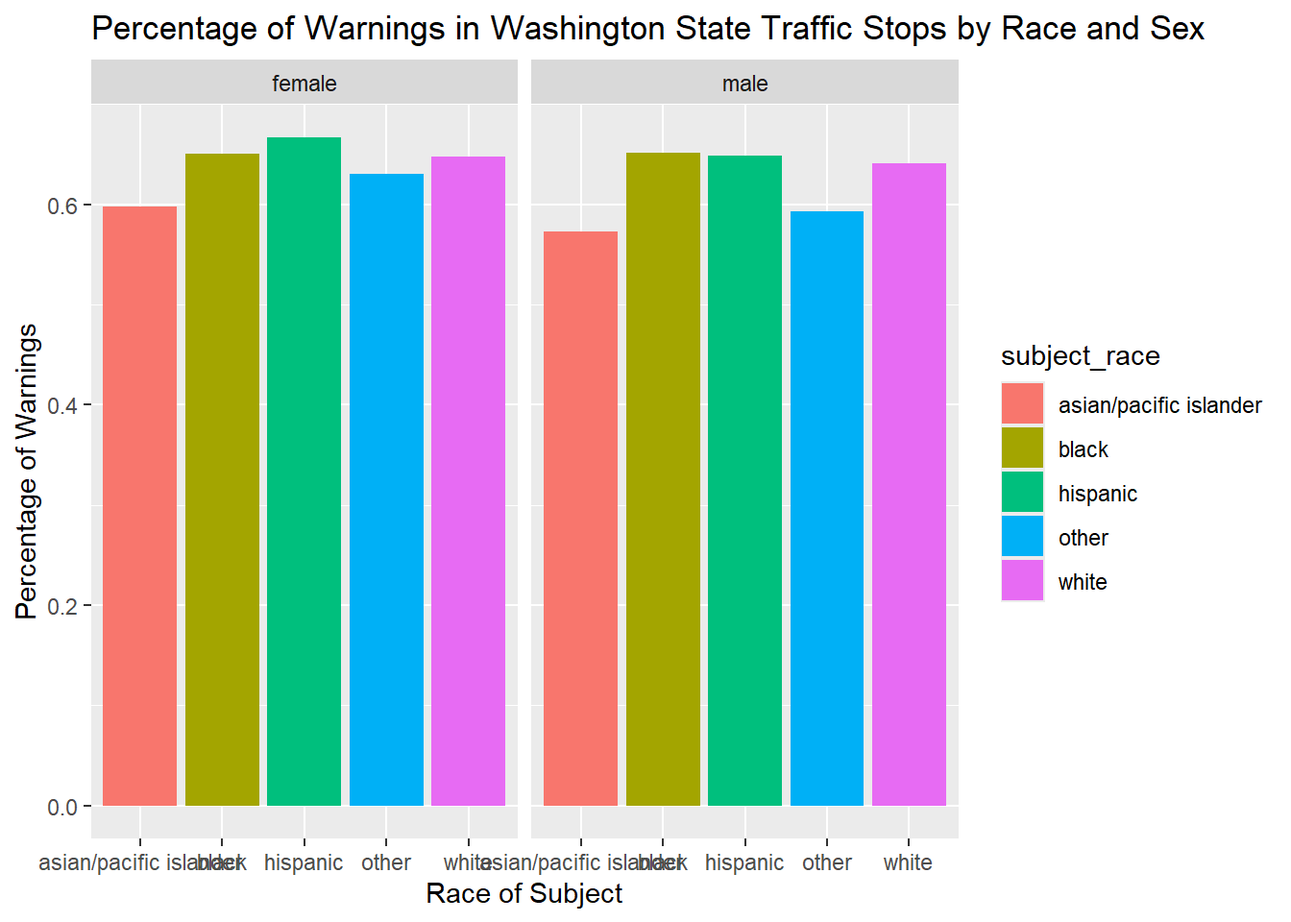
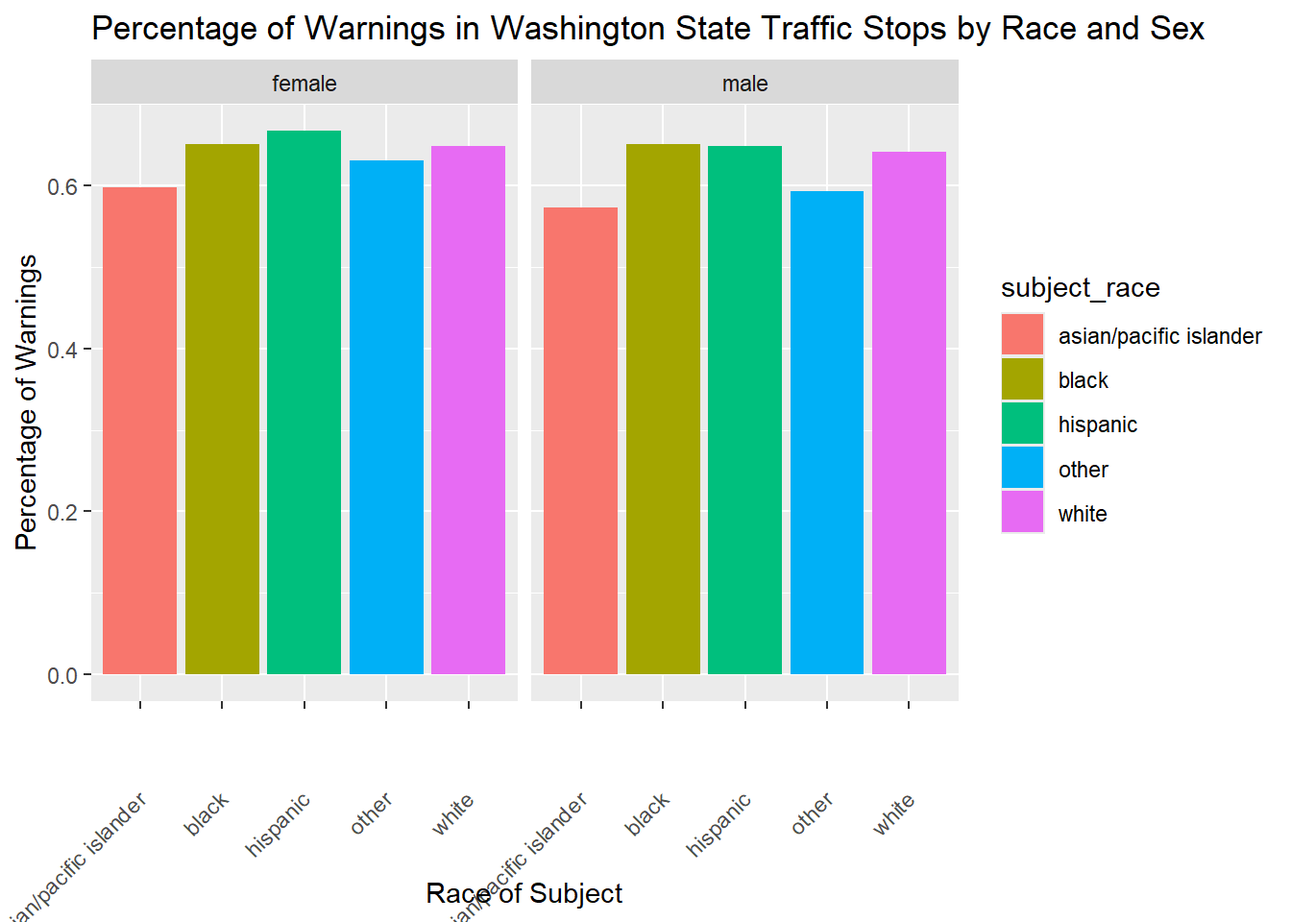
Project 6

diff --git a/docs/sopp.html b/docs/sopp.html
@@ -197,7 +197,7 @@ pre > code.sourceCode > span > a:first-child::before { text-decoration: underlin
 <h1>
 Stanford Open Policing Project
 </h1>
-<p>In this project, I used data compiled by Pierson et. al in 2020. The data and more about the Stanford Open Policing Project can be found on their website (&lt;a href=“https://openpolicing.stanford.edu”&gt;Click Here&lt;/a&gt;).</p>
+<p>In this project, I used data compiled by Pierson et. al in 2020. The data and more about the Stanford Open Policing Project can be found on their website (<a href="https://openpolicing.stanford.edu">Click Here</a>).</p>
 <div class="cell">
 <details>
 <summary>Code</summary>
@@ -214,81 +214,34 @@ Stanford Open Policing Project
 <span id="cb2-4"><a href="#cb2-4" aria-hidden="true" tabindex="-1"></a>  <span class="at">host =</span> <span class="fu">Sys.getenv</span>(<span class="st">"TRAFFIC_HOST"</span>),</span>
 <span id="cb2-5"><a href="#cb2-5" aria-hidden="true" tabindex="-1"></a>  <span class="at">user =</span> <span class="fu">Sys.getenv</span>(<span class="st">"TRAFFIC_USER"</span>),</span>
 <span id="cb2-6"><a href="#cb2-6" aria-hidden="true" tabindex="-1"></a>  <span class="at">password =</span> <span class="fu">Sys.getenv</span>(<span class="st">"TRAFFIC_PWD"</span>)</span>
-<span id="cb2-7"><a href="#cb2-7" aria-hidden="true" tabindex="-1"></a>)</span>
-<span id="cb2-8"><a href="#cb2-8" aria-hidden="true" tabindex="-1"></a></span>
-<span id="cb2-9"><a href="#cb2-9" aria-hidden="true" tabindex="-1"></a>DBI<span class="sc">::</span><span class="fu">dbListTables</span>(con_traffic)</span></code><button title="Copy to Clipboard" class="code-copy-button"><i class="bi"></i></button></pre></div>
+<span id="cb2-7"><a href="#cb2-7" aria-hidden="true" tabindex="-1"></a>)</span></code><button title="Copy to Clipboard" class="code-copy-button"><i class="bi"></i></button></pre></div>
 </details>
-<div class="cell-output cell-output-stdout">
-<pre><code> [1] "ar_little_rock_2020_04_01"      "az_gilbert_2020_04_01"         
- [3] "az_mesa_2023_01_26"             "az_statewide_2020_04_01"       
- [5] "ca_anaheim_2020_04_01"          "ca_bakersfield_2020_04_01"     
- [7] "ca_long_beach_2020_04_01"       "ca_los_angeles_2020_04_01"     
- [9] "ca_oakland_2020_04_01"          "ca_san_bernardino_2020_04_01"  
-[11] "ca_san_diego_2020_04_01"        "ca_san_francisco_2020_04_01"   
-[13] "ca_san_jose_2020_04_01"         "ca_santa_ana_2020_04_01"       
-[15] "ca_statewide_2023_01_26"        "ca_stockton_2020_04_01"        
-[17] "co_aurora_2023_01_26"           "co_denver_2020_04_01"          
-[19] "co_statewide_2020_04_01"        "ct_hartford_2020_04_01"        
-[21] "ct_statewide_2020_04_01"        "fl_saint_petersburg_2020_04_01"
-[23] "fl_statewide_2020_04_01"        "fl_tampa_2020_04_01"           
-[25] "ga_statewide_2020_04_01"        "ia_statewide_2020_04_01"       
-[27] "id_idaho_falls_2020_04_01"      "il_chicago_2023_01_26"         
-[29] "il_statewide_2020_04_01"        "in_fort_wayne_2020_04_01"      
-[31] "ks_wichita_2023_01_26"          "ky_louisville_2023_01_26"      
-[33] "ky_owensboro_2020_04_01"        "la_new_orleans_2020_04_01"     
-[35] "ma_statewide_2020_04_01"        "md_baltimore_2020_04_01"       
-[37] "md_statewide_2020_04_01"        "mi_statewide_2020_04_01"       
-[39] "mn_saint_paul_2020_04_01"       "mo_statewide_2020_04_01"       
-[41] "ms_statewide_2020_04_01"        "mt_statewide_2023_01_26"       
-[43] "nc_charlotte_2020_04_01"        "nc_durham_2020_04_01"          
-[45] "nc_fayetteville_2020_04_01"     "nc_greensboro_2020_04_01"      
-[47] "nc_raleigh_2020_04_01"          "nc_statewide_2020_04_01"       
-[49] "nc_winston_salem_2020_04_01"    "nd_grand_forks_2020_04_01"     
-[51] "nd_statewide_2020_04_01"        "ne_statewide_2020_04_01"       
-[53] "nh_statewide_2020_04_01"        "nj_camden_2020_04_01"          
-[55] "nj_statewide_2020_04_01"        "nv_henderson_2020_04_01"       
-[57] "nv_statewide_2020_04_01"        "ny_albany_2020_04_01"          
-[59] "ny_statewide_2020_04_01"        "oh_cincinnati_2020_04_01"      
-[61] "oh_columbus_2020_04_01"         "oh_statewide_2020_04_01"       
-[63] "ok_oklahoma_city_2023_01_26"    "ok_tulsa_2020_04_01"           
-[65] "or_statewide_2020_04_01"        "pa_philadelphia_2020_04_01"    
-[67] "ri_statewide_2020_04_01"        "sc_statewide_2020_04_01"       
-[69] "sd_statewide_2020_04_01"        "tn_nashville_2020_04_01"       
-[71] "tn_statewide_2020_04_01"        "tx_arlington_2020_04_01"       
-[73] "tx_austin_2020_04_01"           "tx_garland_2020_04_01"         
-[75] "tx_houston_2023_01_26"          "tx_lubbock_2020_04_01"         
-[77] "tx_plano_2020_04_01"            "tx_san_antonio_2023_01_26"     
-[79] "tx_statewide_2020_04_01"        "va_statewide_2020_04_01"       
-[81] "vt_burlington_2023_01_26"       "vt_statewide_2020_04_01"       
-[83] "wa_seattle_2020_04_01"          "wa_statewide_2020_04_01"       
-[85] "wa_tacoma_2020_04_01"           "wi_madison_2023_01_26"         
-[87] "wi_statewide_2020_04_01"        "wy_statewide_2020_04_01"       </code></pre>
-</div>
 </div>
 <div class="cell" data-output.var="race_warning_citation">
 <details>
 <summary>Code</summary>
-<div class="sourceCode cell-code" id="cb4"><pre class="sourceCode sql code-with-copy"><code class="sourceCode sql"><span id="cb4-1"><a href="#cb4-1" aria-hidden="true" tabindex="-1"></a><span class="kw">SELECT</span> subject_sex,</span>
-<span id="cb4-2"><a href="#cb4-2" aria-hidden="true" tabindex="-1"></a>  subject_race,</span>
-<span id="cb4-3"><a href="#cb4-3" aria-hidden="true" tabindex="-1"></a>  <span class="fu">AVG</span>(warning_issued) <span class="kw">AS</span> perc_warning</span>
-<span id="cb4-4"><a href="#cb4-4" aria-hidden="true" tabindex="-1"></a><span class="kw">FROM</span> wa_statewide_2020_04_01</span>
-<span id="cb4-5"><a href="#cb4-5" aria-hidden="true" tabindex="-1"></a><span class="kw">GROUP</span> <span class="kw">BY</span> subject_race, subject_sex</span>
-<span id="cb4-6"><a href="#cb4-6" aria-hidden="true" tabindex="-1"></a><span class="kw">HAVING</span> subject_sex <span class="kw">IS</span> <span class="kw">NOT</span> <span class="kw">NULL</span> <span class="kw">AND</span> subject_race <span class="kw">IS</span> <span class="kw">NOT</span> <span class="kw">NULL</span></span>
-<span id="cb4-7"><a href="#cb4-7" aria-hidden="true" tabindex="-1"></a><span class="kw">ORDER</span> <span class="kw">BY</span> subject_race <span class="kw">DESC</span>;</span></code><button title="Copy to Clipboard" class="code-copy-button"><i class="bi"></i></button></pre></div>
+<div class="sourceCode cell-code" id="cb3"><pre class="sourceCode sql code-with-copy"><code class="sourceCode sql"><span id="cb3-1"><a href="#cb3-1" aria-hidden="true" tabindex="-1"></a><span class="kw">SELECT</span> subject_sex,</span>
+<span id="cb3-2"><a href="#cb3-2" aria-hidden="true" tabindex="-1"></a>  subject_race,</span>
+<span id="cb3-3"><a href="#cb3-3" aria-hidden="true" tabindex="-1"></a>  <span class="fu">AVG</span>(warning_issued) <span class="kw">AS</span> perc_warning</span>
+<span id="cb3-4"><a href="#cb3-4" aria-hidden="true" tabindex="-1"></a><span class="kw">FROM</span> wa_statewide_2020_04_01</span>
+<span id="cb3-5"><a href="#cb3-5" aria-hidden="true" tabindex="-1"></a><span class="kw">WHERE</span> subject_sex <span class="kw">IS</span> <span class="kw">NOT</span> <span class="kw">NULL</span> <span class="kw">AND</span> subject_race <span class="kw">IS</span> <span class="kw">NOT</span> <span class="kw">NULL</span></span>
+<span id="cb3-6"><a href="#cb3-6" aria-hidden="true" tabindex="-1"></a><span class="kw">GROUP</span> <span class="kw">BY</span> subject_race, subject_sex</span>
+<span id="cb3-7"><a href="#cb3-7" aria-hidden="true" tabindex="-1"></a><span class="kw">ORDER</span> <span class="kw">BY</span> subject_race <span class="kw">DESC</span>;</span></code><button title="Copy to Clipboard" class="code-copy-button"><i class="bi"></i></button></pre></div>
 </details>
 </div>
 <div class="cell">
 <details>
 <summary>Code</summary>
-<div class="sourceCode cell-code" id="cb5"><pre class="sourceCode r code-with-copy"><code class="sourceCode r"><span id="cb5-1"><a href="#cb5-1" aria-hidden="true" tabindex="-1"></a>race_warning_citation <span class="sc">|&gt;</span></span>
-<span id="cb5-2"><a href="#cb5-2" aria-hidden="true" tabindex="-1"></a>  <span class="fu">ggplot</span>(<span class="fu">aes</span>(<span class="at">x =</span> subject_race, <span class="at">y =</span> perc_warning)) <span class="sc">+</span></span>
-<span id="cb5-3"><a href="#cb5-3" aria-hidden="true" tabindex="-1"></a>    <span class="fu">geom_col</span>(<span class="fu">aes</span>(<span class="at">fill =</span> subject_race)) <span class="sc">+</span></span>
-<span id="cb5-4"><a href="#cb5-4" aria-hidden="true" tabindex="-1"></a>    <span class="fu">labs</span>(</span>
-<span id="cb5-5"><a href="#cb5-5" aria-hidden="true" tabindex="-1"></a>      <span class="at">x =</span> <span class="st">"Race of Subject"</span>,</span>
-<span id="cb5-6"><a href="#cb5-6" aria-hidden="true" tabindex="-1"></a>      <span class="at">y =</span> <span class="st">"Percentage of Warnings"</span>,</span>
-<span id="cb5-7"><a href="#cb5-7" aria-hidden="true" tabindex="-1"></a>      <span class="at">title =</span> <span class="st">"Percentage of Warnings in Washington State Traffic Stops by Race and Sex"</span></span>
-<span id="cb5-8"><a href="#cb5-8" aria-hidden="true" tabindex="-1"></a>    ) <span class="sc">+</span></span>
-<span id="cb5-9"><a href="#cb5-9" aria-hidden="true" tabindex="-1"></a>    <span class="fu">facet_grid</span>(<span class="sc">~</span>subject_sex)</span></code><button title="Copy to Clipboard" class="code-copy-button"><i class="bi"></i></button></pre></div>
+<div class="sourceCode cell-code" id="cb4"><pre class="sourceCode r code-with-copy"><code class="sourceCode r"><span id="cb4-1"><a href="#cb4-1" aria-hidden="true" tabindex="-1"></a>race_warning_citation <span class="sc">|&gt;</span></span>
+<span id="cb4-2"><a href="#cb4-2" aria-hidden="true" tabindex="-1"></a>  <span class="fu">ggplot</span>(<span class="fu">aes</span>(<span class="at">x =</span> subject_race, <span class="at">y =</span> perc_warning)) <span class="sc">+</span></span>
+<span id="cb4-3"><a href="#cb4-3" aria-hidden="true" tabindex="-1"></a>    <span class="fu">geom_col</span>(<span class="fu">aes</span>(<span class="at">fill =</span> subject_race)) <span class="sc">+</span></span>
+<span id="cb4-4"><a href="#cb4-4" aria-hidden="true" tabindex="-1"></a>    <span class="fu">labs</span>(</span>
+<span id="cb4-5"><a href="#cb4-5" aria-hidden="true" tabindex="-1"></a>      <span class="at">x =</span> <span class="st">"Race of Subject"</span>,</span>
+<span id="cb4-6"><a href="#cb4-6" aria-hidden="true" tabindex="-1"></a>      <span class="at">y =</span> <span class="st">"Percentage of Warnings"</span>,</span>
+<span id="cb4-7"><a href="#cb4-7" aria-hidden="true" tabindex="-1"></a>      <span class="at">title =</span> <span class="st">"Percentage of Warnings in Washington State Traffic Stops by Race and Sex"</span></span>
+<span id="cb4-8"><a href="#cb4-8" aria-hidden="true" tabindex="-1"></a>    ) <span class="sc">+</span></span>
+<span id="cb4-9"><a href="#cb4-9" aria-hidden="true" tabindex="-1"></a>    <span class="fu">facet_grid</span>(<span class="sc">~</span>subject_sex) <span class="sc">+</span> </span>
+<span id="cb4-10"><a href="#cb4-10" aria-hidden="true" tabindex="-1"></a>    <span class="fu">theme</span>(<span class="at">axis.text.x =</span> <span class="fu">element_text</span>(<span class="at">angle =</span> <span class="dv">45</span>, <span class="at">vjust =</span> <span class="fl">0.5</span>, <span class="at">hjust=</span><span class="dv">1</span>))</span></code><button title="Copy to Clipboard" class="code-copy-button"><i class="bi"></i></button></pre></div>
 </details>
 <div class="cell-output-display">
 <p><img src="sopp_files/figure-html/unnamed-chunk-4-1.png" class="img-fluid" width="672"></p>
@@ -298,50 +251,50 @@ Stanford Open Policing Project
 <div class="cell" data-output.var="ca_sex_stops">
 <details>
 <summary>Code</summary>
-<div class="sourceCode cell-code" id="cb6"><pre class="sourceCode sql code-with-copy"><code class="sourceCode sql"><span id="cb6-1"><a href="#cb6-1" aria-hidden="true" tabindex="-1"></a></span>
-<span id="cb6-2"><a href="#cb6-2" aria-hidden="true" tabindex="-1"></a><span class="kw">SELECT</span> subject_sex,</span>
-<span id="cb6-3"><a href="#cb6-3" aria-hidden="true" tabindex="-1"></a>  <span class="fu">SUM</span>(<span class="dv">1</span>) <span class="kw">AS</span> total,</span>
-<span id="cb6-4"><a href="#cb6-4" aria-hidden="true" tabindex="-1"></a>  <span class="st">'SF'</span> <span class="kw">AS</span> city,</span>
-<span id="cb6-5"><a href="#cb6-5" aria-hidden="true" tabindex="-1"></a>  SUBSTRING(<span class="dt">time</span>, <span class="dv">1</span>, <span class="dv">2</span>) <span class="kw">AS</span> <span class="kw">hour</span></span>
-<span id="cb6-6"><a href="#cb6-6" aria-hidden="true" tabindex="-1"></a><span class="kw">FROM</span> ca_san_francisco_2020_04_01</span>
-<span id="cb6-7"><a href="#cb6-7" aria-hidden="true" tabindex="-1"></a><span class="kw">WHERE</span> <span class="dt">time</span> <span class="kw">IS</span> <span class="kw">NOT</span> <span class="kw">NULL</span></span>
-<span id="cb6-8"><a href="#cb6-8" aria-hidden="true" tabindex="-1"></a><span class="kw">GROUP</span> <span class="kw">BY</span> subject_sex, <span class="kw">hour</span></span>
-<span id="cb6-9"><a href="#cb6-9" aria-hidden="true" tabindex="-1"></a></span>
-<span id="cb6-10"><a href="#cb6-10" aria-hidden="true" tabindex="-1"></a><span class="kw">UNION</span></span>
-<span id="cb6-11"><a href="#cb6-11" aria-hidden="true" tabindex="-1"></a></span>
-<span id="cb6-12"><a href="#cb6-12" aria-hidden="true" tabindex="-1"></a><span class="kw">SELECT</span> subject_sex,</span>
-<span id="cb6-13"><a href="#cb6-13" aria-hidden="true" tabindex="-1"></a>  <span class="fu">SUM</span>(<span class="dv">1</span>) <span class="kw">AS</span> total,</span>
-<span id="cb6-14"><a href="#cb6-14" aria-hidden="true" tabindex="-1"></a>  <span class="st">'LA'</span> <span class="kw">AS</span> city,</span>
-<span id="cb6-15"><a href="#cb6-15" aria-hidden="true" tabindex="-1"></a>  SUBSTRING(<span class="dt">time</span>, <span class="dv">1</span>, <span class="dv">2</span>) <span class="kw">AS</span> <span class="kw">hour</span></span>
-<span id="cb6-16"><a href="#cb6-16" aria-hidden="true" tabindex="-1"></a><span class="kw">FROM</span> ca_los_angeles_2020_04_01</span>
-<span id="cb6-17"><a href="#cb6-17" aria-hidden="true" tabindex="-1"></a><span class="kw">WHERE</span> <span class="dt">time</span> <span class="kw">IS</span> <span class="kw">NOT</span> <span class="kw">NULL</span></span>
-<span id="cb6-18"><a href="#cb6-18" aria-hidden="true" tabindex="-1"></a><span class="kw">GROUP</span> <span class="kw">BY</span> subject_sex, <span class="kw">hour</span>;</span></code><button title="Copy to Clipboard" class="code-copy-button"><i class="bi"></i></button></pre></div>
+<div class="sourceCode cell-code" id="cb5"><pre class="sourceCode sql code-with-copy"><code class="sourceCode sql"><span id="cb5-1"><a href="#cb5-1" aria-hidden="true" tabindex="-1"></a></span>
+<span id="cb5-2"><a href="#cb5-2" aria-hidden="true" tabindex="-1"></a><span class="kw">SELECT</span> subject_sex,</span>
+<span id="cb5-3"><a href="#cb5-3" aria-hidden="true" tabindex="-1"></a>  <span class="fu">SUM</span>(<span class="dv">1</span>) <span class="kw">AS</span> total,</span>
+<span id="cb5-4"><a href="#cb5-4" aria-hidden="true" tabindex="-1"></a>  <span class="st">'SF'</span> <span class="kw">AS</span> city,</span>
+<span id="cb5-5"><a href="#cb5-5" aria-hidden="true" tabindex="-1"></a>  SUBSTRING(<span class="dt">time</span>, <span class="dv">1</span>, <span class="dv">2</span>) <span class="kw">AS</span> <span class="kw">hour</span></span>
+<span id="cb5-6"><a href="#cb5-6" aria-hidden="true" tabindex="-1"></a><span class="kw">FROM</span> ca_san_francisco_2020_04_01</span>
+<span id="cb5-7"><a href="#cb5-7" aria-hidden="true" tabindex="-1"></a><span class="kw">WHERE</span> <span class="dt">time</span> <span class="kw">IS</span> <span class="kw">NOT</span> <span class="kw">NULL</span></span>
+<span id="cb5-8"><a href="#cb5-8" aria-hidden="true" tabindex="-1"></a><span class="kw">GROUP</span> <span class="kw">BY</span> subject_sex, <span class="kw">hour</span></span>
+<span id="cb5-9"><a href="#cb5-9" aria-hidden="true" tabindex="-1"></a></span>
+<span id="cb5-10"><a href="#cb5-10" aria-hidden="true" tabindex="-1"></a><span class="kw">UNION</span></span>
+<span id="cb5-11"><a href="#cb5-11" aria-hidden="true" tabindex="-1"></a></span>
+<span id="cb5-12"><a href="#cb5-12" aria-hidden="true" tabindex="-1"></a><span class="kw">SELECT</span> subject_sex,</span>
+<span id="cb5-13"><a href="#cb5-13" aria-hidden="true" tabindex="-1"></a>  <span class="fu">SUM</span>(<span class="dv">1</span>) <span class="kw">AS</span> total,</span>
+<span id="cb5-14"><a href="#cb5-14" aria-hidden="true" tabindex="-1"></a>  <span class="st">'LA'</span> <span class="kw">AS</span> city,</span>
+<span id="cb5-15"><a href="#cb5-15" aria-hidden="true" tabindex="-1"></a>  SUBSTRING(<span class="dt">time</span>, <span class="dv">1</span>, <span class="dv">2</span>) <span class="kw">AS</span> <span class="kw">hour</span></span>
+<span id="cb5-16"><a href="#cb5-16" aria-hidden="true" tabindex="-1"></a><span class="kw">FROM</span> ca_los_angeles_2020_04_01</span>
+<span id="cb5-17"><a href="#cb5-17" aria-hidden="true" tabindex="-1"></a><span class="kw">WHERE</span> <span class="dt">time</span> <span class="kw">IS</span> <span class="kw">NOT</span> <span class="kw">NULL</span></span>
+<span id="cb5-18"><a href="#cb5-18" aria-hidden="true" tabindex="-1"></a><span class="kw">GROUP</span> <span class="kw">BY</span> subject_sex, <span class="kw">hour</span>;</span></code><button title="Copy to Clipboard" class="code-copy-button"><i class="bi"></i></button></pre></div>
 </details>
 </div>
 <div class="cell">
 <details>
 <summary>Code</summary>
-<div class="sourceCode cell-code" id="cb7"><pre class="sourceCode r code-with-copy"><code class="sourceCode r"><span id="cb7-1"><a href="#cb7-1" aria-hidden="true" tabindex="-1"></a>ca_sex_stops <span class="sc">|&gt;</span></span>
-<span id="cb7-2"><a href="#cb7-2" aria-hidden="true" tabindex="-1"></a>  <span class="fu">mutate</span>(<span class="at">hour =</span> <span class="fu">as.numeric</span>(hour)) <span class="sc">|&gt;</span></span>
-<span id="cb7-3"><a href="#cb7-3" aria-hidden="true" tabindex="-1"></a>  <span class="fu">group_by</span>(city) <span class="sc">|&gt;</span></span>
-<span id="cb7-4"><a href="#cb7-4" aria-hidden="true" tabindex="-1"></a>  <span class="fu">mutate</span>(<span class="at">total_stops =</span> <span class="fu">sum</span>(total)) <span class="sc">|&gt;</span></span>
-<span id="cb7-5"><a href="#cb7-5" aria-hidden="true" tabindex="-1"></a>  <span class="fu">ungroup</span>()<span class="sc">|&gt;</span></span>
-<span id="cb7-6"><a href="#cb7-6" aria-hidden="true" tabindex="-1"></a>  <span class="fu">mutate</span>(<span class="at">prop_stops =</span> total<span class="sc">/</span>total_stops) <span class="sc">|&gt;</span></span>
-<span id="cb7-7"><a href="#cb7-7" aria-hidden="true" tabindex="-1"></a>  <span class="fu">ggplot</span>(<span class="fu">aes</span>(<span class="at">x =</span> hour, <span class="at">y =</span> prop_stops, <span class="at">color =</span> subject_sex)) <span class="sc">+</span></span>
-<span id="cb7-8"><a href="#cb7-8" aria-hidden="true" tabindex="-1"></a>    <span class="fu">geom_line</span>() <span class="sc">+</span></span>
-<span id="cb7-9"><a href="#cb7-9" aria-hidden="true" tabindex="-1"></a>    <span class="fu">labs</span>(</span>
-<span id="cb7-10"><a href="#cb7-10" aria-hidden="true" tabindex="-1"></a>      <span class="at">x =</span> <span class="st">"Hour of the Day"</span>,</span>
-<span id="cb7-11"><a href="#cb7-11" aria-hidden="true" tabindex="-1"></a>      <span class="at">y =</span> <span class="st">"Proportion of Stops"</span>,</span>
-<span id="cb7-12"><a href="#cb7-12" aria-hidden="true" tabindex="-1"></a>      <span class="at">Title =</span> <span class="st">"Proportion of Stops in San Francisco vs California at Various Times of the Day"</span></span>
-<span id="cb7-13"><a href="#cb7-13" aria-hidden="true" tabindex="-1"></a>    ) <span class="sc">+</span></span>
-<span id="cb7-14"><a href="#cb7-14" aria-hidden="true" tabindex="-1"></a>    <span class="fu">theme_classic</span>()<span class="sc">+</span></span>
-<span id="cb7-15"><a href="#cb7-15" aria-hidden="true" tabindex="-1"></a>    <span class="fu">facet_grid</span>(<span class="sc">~</span>city)</span></code><button title="Copy to Clipboard" class="code-copy-button"><i class="bi"></i></button></pre></div>
+<div class="sourceCode cell-code" id="cb6"><pre class="sourceCode r code-with-copy"><code class="sourceCode r"><span id="cb6-1"><a href="#cb6-1" aria-hidden="true" tabindex="-1"></a>ca_sex_stops <span class="sc">|&gt;</span></span>
+<span id="cb6-2"><a href="#cb6-2" aria-hidden="true" tabindex="-1"></a>  <span class="fu">mutate</span>(<span class="at">hour =</span> <span class="fu">as.numeric</span>(hour)) <span class="sc">|&gt;</span></span>
+<span id="cb6-3"><a href="#cb6-3" aria-hidden="true" tabindex="-1"></a>  <span class="fu">group_by</span>(city) <span class="sc">|&gt;</span></span>
+<span id="cb6-4"><a href="#cb6-4" aria-hidden="true" tabindex="-1"></a>  <span class="fu">mutate</span>(<span class="at">total_stops =</span> <span class="fu">sum</span>(total)) <span class="sc">|&gt;</span></span>
+<span id="cb6-5"><a href="#cb6-5" aria-hidden="true" tabindex="-1"></a>  <span class="fu">ungroup</span>()<span class="sc">|&gt;</span></span>
+<span id="cb6-6"><a href="#cb6-6" aria-hidden="true" tabindex="-1"></a>  <span class="fu">mutate</span>(<span class="at">prop_stops =</span> total<span class="sc">/</span>total_stops) <span class="sc">|&gt;</span></span>
+<span id="cb6-7"><a href="#cb6-7" aria-hidden="true" tabindex="-1"></a>  <span class="fu">ggplot</span>(<span class="fu">aes</span>(<span class="at">x =</span> hour, <span class="at">y =</span> prop_stops, <span class="at">color =</span> subject_sex)) <span class="sc">+</span></span>
+<span id="cb6-8"><a href="#cb6-8" aria-hidden="true" tabindex="-1"></a>    <span class="fu">geom_line</span>() <span class="sc">+</span></span>
+<span id="cb6-9"><a href="#cb6-9" aria-hidden="true" tabindex="-1"></a>    <span class="fu">labs</span>(</span>
+<span id="cb6-10"><a href="#cb6-10" aria-hidden="true" tabindex="-1"></a>      <span class="at">x =</span> <span class="st">"Hour of the Day"</span>,</span>
+<span id="cb6-11"><a href="#cb6-11" aria-hidden="true" tabindex="-1"></a>      <span class="at">y =</span> <span class="st">"Proportion of Stops"</span>,</span>
+<span id="cb6-12"><a href="#cb6-12" aria-hidden="true" tabindex="-1"></a>      <span class="at">Title =</span> <span class="st">"Proportion of Stops in San Francisco vs California at Various Times of the Day"</span></span>
+<span id="cb6-13"><a href="#cb6-13" aria-hidden="true" tabindex="-1"></a>    ) <span class="sc">+</span></span>
+<span id="cb6-14"><a href="#cb6-14" aria-hidden="true" tabindex="-1"></a>    <span class="fu">theme_classic</span>()<span class="sc">+</span></span>
+<span id="cb6-15"><a href="#cb6-15" aria-hidden="true" tabindex="-1"></a>    <span class="fu">facet_grid</span>(<span class="sc">~</span>city)</span></code><button title="Copy to Clipboard" class="code-copy-button"><i class="bi"></i></button></pre></div>
 </details>
 <div class="cell-output-display">
 <p><img src="sopp_files/figure-html/unnamed-chunk-6-1.png" class="img-fluid" width="672"></p>
 </div>
 </div>
-<p>This graph represents proportion of stops that happen throughout different times of the day in San Francisco and LA separated by gender. One very obvious trend is that men are more likely to be pulled over. The least amount of traffic stops happen around 5 AM. In LA the peak time for traffic stops is 8 PM but in San Francisco the peak time for traffic stops is arounf 11 PM.</p>
+<p>This graph represents proportion of stops that happen throughout different times of the day in San Francisco and LA separated by gender, in order to tell us at specific times of day what proportion of traffic stops are men and what proportion of traffic stops are women. One very obvious trend is that men are more likely to be pulled over. The least amount of traffic stops happen around 5 AM. In LA the peak time for traffic stops is 8 PM but in San Francisco the peak time for traffic stops is around 11 PM.</p>
 <h3 class="anchored">
 References
 </h3>

diff --git a/docs/characanalysis.html b/docs/characanalysis.html
@@ -197,7 +197,7 @@ pre > code.sourceCode > span > a:first-child::before { text-decoration: underlin
 <h1>
 Analyzing Friends Dialogue
 </h1>
-<p>This data was obtained from user EmilHvitfeldt on Github. You can find the link <a href="https://https://github.com/EmilHvitfeldt/friends/tree/master/data">here</a>. I will use the data to analyze how much they mention dating over the years of the show being aired and how viewership varies based on the name of the main character in the title of the episode.</p>
+<p>This data was obtained from user EmilHvitfeldt on Github. You can find the link <a href="https://github.com/EmilHvitfeldt/friends/tree/master/data">here</a>. I will use the data to analyze how much they mention dating over the years of the show being aired and how viewership varies based on the name of the main character in the title of the episode.</p>
 <div class="cell">
 <details>
 <summary>Code</summary>
@@ -245,7 +245,7 @@ Analyzing Friends Dialogue
 <p><img src="characanalysis_files/figure-html/unnamed-chunk-3-1.png" class="img-fluid" width="672"></p>
 </div>
 </div>
-<p>In 1995,1996, 1998, and 1999 the word date was said a lot less often in friends. I have never watched friends but I assume that during these years, the main characters were in more long term relationships. This is probably why we see a dip in 2004 as well because they are wrapping up the show and giving the characters happy endings with a partner. Again this paragraph is written by someone who has never watched friends.</p>
+<p>In 1995,1996, 1998, and 1999 the word date was said a lot less often in friends. I have never watched Friends but I assume that during these years, the main characters were in more long term relationships. This is probably why we see a dip in 2004 as well because they are wrapping up the show and giving the characters happy endings with a partner. Again this paragraph is written by someone who has never watched Friends.</p>
 <div class="cell">
 <details>
 <summary>Code</summary>
@@ -257,21 +257,32 @@ Analyzing Friends Dialogue
 <span id="cb4-6"><a href="#cb4-6" aria-hidden="true" tabindex="-1"></a>  <span class="fu">mutate</span>(<span class="at">spec_title =</span> <span class="fu">str_extract</span>(title, <span class="st">"(?&lt;=:).+"</span>))<span class="sc">|&gt;</span></span>
 <span id="cb4-7"><a href="#cb4-7" aria-hidden="true" tabindex="-1"></a>  <span class="fu">mutate</span>(<span class="at">main_char =</span> <span class="fu">if_else</span>(<span class="fu">str_detect</span>(spec_title, </span>
 <span id="cb4-8"><a href="#cb4-8" aria-hidden="true" tabindex="-1"></a>                                <span class="st">"(?i)</span><span class="sc">\\</span><span class="st">bchandler|monica|joey|phoebe|rachel|ross</span><span class="sc">\\</span><span class="st">b"</span>), <span class="fu">str_extract</span>(spec_title, </span>
-<span id="cb4-9"><a href="#cb4-9" aria-hidden="true" tabindex="-1"></a>                                <span class="st">"(?i)</span><span class="sc">\\</span><span class="st">bchandler|monica|joey|phoebe|rachel|ross</span><span class="sc">\\</span><span class="st">b"</span>), <span class="st">"None"</span>))</span>
-<span id="cb4-10"><a href="#cb4-10" aria-hidden="true" tabindex="-1"></a>  </span>
-<span id="cb4-11"><a href="#cb4-11" aria-hidden="true" tabindex="-1"></a></span>
-<span id="cb4-12"><a href="#cb4-12" aria-hidden="true" tabindex="-1"></a><span class="fu">ggplot</span>(main, <span class="fu">aes</span>(<span class="at">fill =</span> main_char, <span class="at">x =</span> main_char, <span class="at">y =</span> us_views_millions)) <span class="sc">+</span></span>
-<span id="cb4-13"><a href="#cb4-13" aria-hidden="true" tabindex="-1"></a>  <span class="fu">geom_boxplot</span>() <span class="sc">+</span></span>
-<span id="cb4-14"><a href="#cb4-14" aria-hidden="true" tabindex="-1"></a>  <span class="fu">theme_bw</span>() <span class="sc">+</span></span>
-<span id="cb4-15"><a href="#cb4-15" aria-hidden="true" tabindex="-1"></a>  <span class="fu">labs</span>(<span class="at">x =</span> <span class="st">"Main Character in Title"</span>,</span>
-<span id="cb4-16"><a href="#cb4-16" aria-hidden="true" tabindex="-1"></a>       <span class="at">y =</span> <span class="st">"Episode Views in millions"</span>,</span>
-<span id="cb4-17"><a href="#cb4-17" aria-hidden="true" tabindex="-1"></a>       <span class="at">title =</span> <span class="st">"Friends Episode Viewership Based on Main Character in Title"</span>) </span></code><button title="Copy to Clipboard" class="code-copy-button"><i class="bi"></i></button></pre></div>
+<span id="cb4-9"><a href="#cb4-9" aria-hidden="true" tabindex="-1"></a>                                <span class="st">"(?i)</span><span class="sc">\\</span><span class="st">bchandler|monica|joey|phoebe|rachel|ross</span><span class="sc">\\</span><span class="st">b"</span>), <span class="st">"None"</span>))<span class="sc">|&gt;</span></span>
+<span id="cb4-10"><a href="#cb4-10" aria-hidden="true" tabindex="-1"></a>  <span class="fu">inner_join</span>(friends, <span class="at">by =</span> <span class="fu">c</span>(<span class="st">"season"</span>, <span class="st">"episode"</span>)) <span class="sc">|&gt;</span></span>
+<span id="cb4-11"><a href="#cb4-11" aria-hidden="true" tabindex="-1"></a>  <span class="fu">select</span>(season, episode, main_char, speaker) <span class="sc">|&gt;</span></span>
+<span id="cb4-12"><a href="#cb4-12" aria-hidden="true" tabindex="-1"></a>  <span class="fu">filter</span>(<span class="fu">str_detect</span>(speaker, (<span class="st">"(Chandler Bing|Monica Geller|Joey Tribbiani|Phoebe Buffay|Rachel Green|Ross Geller)"</span>))) <span class="sc">|&gt;</span></span>
+<span id="cb4-13"><a href="#cb4-13" aria-hidden="true" tabindex="-1"></a>  <span class="fu">filter</span>(speaker <span class="sc">!=</span> <span class="st">"Joey Tribbiani Sr."</span>) <span class="sc">|&gt;</span></span>
+<span id="cb4-14"><a href="#cb4-14" aria-hidden="true" tabindex="-1"></a>  <span class="fu">group_by</span>(main_char, speaker) <span class="sc">|&gt;</span></span>
+<span id="cb4-15"><a href="#cb4-15" aria-hidden="true" tabindex="-1"></a>  <span class="fu">summarize</span>(<span class="at">numlines =</span> <span class="fu">n</span>()) <span class="sc">|&gt;</span></span>
+<span id="cb4-16"><a href="#cb4-16" aria-hidden="true" tabindex="-1"></a>  <span class="fu">ungroup</span>() <span class="sc">|&gt;</span></span>
+<span id="cb4-17"><a href="#cb4-17" aria-hidden="true" tabindex="-1"></a>  <span class="fu">group_by</span>(main_char) <span class="sc">|&gt;</span></span>
+<span id="cb4-18"><a href="#cb4-18" aria-hidden="true" tabindex="-1"></a>  <span class="fu">mutate</span>(<span class="at">percmainlines =</span> (numlines<span class="sc">/</span><span class="fu">sum</span>(numlines))<span class="sc">*</span><span class="dv">100</span>)</span>
+<span id="cb4-19"><a href="#cb4-19" aria-hidden="true" tabindex="-1"></a>  </span>
+<span id="cb4-20"><a href="#cb4-20" aria-hidden="true" tabindex="-1"></a></span>
+<span id="cb4-21"><a href="#cb4-21" aria-hidden="true" tabindex="-1"></a><span class="fu">ggplot</span>(main, <span class="fu">aes</span>(<span class="at">fill =</span> speaker, <span class="at">x =</span> speaker, <span class="at">y =</span> percmainlines)) <span class="sc">+</span></span>
+<span id="cb4-22"><a href="#cb4-22" aria-hidden="true" tabindex="-1"></a>  <span class="fu">geom_col</span>() <span class="sc">+</span></span>
+<span id="cb4-23"><a href="#cb4-23" aria-hidden="true" tabindex="-1"></a>  <span class="fu">theme_bw</span>() <span class="sc">+</span></span>
+<span id="cb4-24"><a href="#cb4-24" aria-hidden="true" tabindex="-1"></a>  <span class="fu">labs</span>(<span class="at">x =</span> <span class="st">"Speaker"</span>,</span>
+<span id="cb4-25"><a href="#cb4-25" aria-hidden="true" tabindex="-1"></a>       <span class="at">y =</span> <span class="st">"Percentage of Main Character Lines"</span>,</span>
+<span id="cb4-26"><a href="#cb4-26" aria-hidden="true" tabindex="-1"></a>       <span class="at">title =</span> <span class="st">"Friends Episode Viewership Based on Main Character in Title"</span>) <span class="sc">+</span></span>
+<span id="cb4-27"><a href="#cb4-27" aria-hidden="true" tabindex="-1"></a>  <span class="fu">facet_wrap</span>(<span class="sc">~</span>main_char) <span class="sc">+</span></span>
+<span id="cb4-28"><a href="#cb4-28" aria-hidden="true" tabindex="-1"></a>  <span class="fu">theme</span>(<span class="at">axis.text.x =</span> <span class="fu">element_text</span>(<span class="at">angle =</span> <span class="dv">45</span>, <span class="at">vjust =</span> <span class="fl">0.5</span>, <span class="at">hjust=</span><span class="dv">1</span>))</span></code><button title="Copy to Clipboard" class="code-copy-button"><i class="bi"></i></button></pre></div>
 </details>
 <div class="cell-output-display">
 <p><img src="characanalysis_files/figure-html/unnamed-chunk-4-1.png" class="img-fluid" width="672"></p>
 </div>
 </div>
-<p>Having some characters names in the title leads to a higher mean of viewers like Monica and Chandler but having Ross’ name in the title leads to a lower mean of viewers. Having the other main characters names in the tile leads to a similar mean value as having no main character name in the title at all. Overall there is a lot of overlap and the differences are not that significant. If I had a show and I wanted to know if putting certain characters names in the titles lead to more views than I would appreciate that knowledge.</p>
+<p>Rachel consistently has a lot of lines compared to others in the cast even when she is not the main character based on the title of the episode. When a character has their name in the title, they have the highest percentage of main character lines, except in the case of Monica.</p>
 
 
 

diff --git a/docs/ethics.html b/docs/ethics.html
@@ -156,14 +156,20 @@ ul.task-list li input[type="checkbox"] {
 <h1>
 Target and Pregnancy Predictions
 </h1>
-<p>A 2012 article in the New York Times tells the story of how Target created a pregnancy predictor. Andrew Pole, a statistician began working at Target in 2002. Two colleagues in the marketing department asked him if he could predict if a customer was pregnant even if she did not want them to know. They went on this journey of creating an algorithm to predict pregnancy because of the fact that new parents are a holy grail for retailers. Most people remain consistent in their shopping habits and it is hard to change them as a retailer. The prime time to change people’s shopping habits is when they go through a big change in life, becoming parents is one of those changes. Wanting to seize the opportunity to gain new customers or change the shopping habits of infrequent customers, Target developed this algorithm and used it to advertise ads for baby items to pregnant women. This algorithm was allegly so specific it could estimate the month that the baby is due based on a woman’s change in shopping habits. This algorithm tracks 25 items that when analyzed together could give rise to a pregnancy score. An example of some of these items are unscented lotion, a large purse that could double as a diaper bag, and zinc and magnesium supplements.</p>
+<p>A 2012 <em>New York Times</em> article recounts how Target developed a pregnancy prediction algorithm. Andrew Pole, a statistician who joined the company in 2002, was approached by marketing colleagues with a provocative question: Could he predict if a customer was pregnant—even if she hadn't disclosed it? Retailers consider new parents a "holy grail" because major life changes, like having a child, can disrupt established shopping habits. Target wanted to use this opportunity to attract new customers or alter the habits of infrequent shoppers.</p>
+<p>To do this, Pole and his team developed an algorithm capable of identifying pregnant customers based on changes in their shopping behavior. Reportedly, it could even estimate a woman's due date. The model relied on tracking 25 specific products—such as unscented lotion, large handbags that could double as diaper bags, and zinc or magnesium supplements—to generate a "pregnancy score."</p>
 <p><a href="https://www.nytimes.com/2012/02/19/magazine/shopping-habits.html?smid=url-share">Source</a></p>
-<p>An article by the Medium in 2020 dissects this article by the New York Times and addresses how the article might make the algorithm seem more advanced than it actually is. The original New York Times article, emphasizes a story where a father finds out that his teenage daughter was pregnant through the ads. The Medium article argues that the odds of Andrew Pole finding out that this happened in a random target is low and there is no proof that the target algorithm predicted that this specific girl was pregnant as opposed to her getting a random ad that happened to have some maternity things. The article then states that even if the story is true, it does not tell us about how good the algorithm itself is. The article uses the New York Times article as an example of how not to report an algorithm. This article advocates for the reporting of accuracy, false positive rate, false negative rate, precision, and recall of these algorithms so people can really gain a sense of how effective these algorithms are.</p>
+<p>A 2020 <em>Medium</em> article revisits and critiques the <em>New York Times</em> story, suggesting the original piece may have overstated the algorithm’s sophistication. It questions the famous anecdote about a father learning of his daughter’s pregnancy via Target ads, arguing that such a coincidence is unlikely and lacks evidence. Even if the story were true, the <em>Medium</em> article points out, it says little about the algorithm's actual accuracy. The piece uses the original article as an example of poor reporting on algorithms, advocating instead for transparency around metrics like accuracy, false positives/negatives, precision, and recall.</p>
 <p><a href="https://medium.com/\@colin.fraser/target-didnt-figure-out-a-teen-girl-was-pregnant-before-her-father-did-a6be13b973a5\">Source</a></p>
-<p>However, neither of these articles address the fact that there is no consent from customers to do this. Even in the original article with an interview with Andrew Pole, his colleagues in the marketing department state they would like to know that the customer is pregnant even if she does not want them to know she was pregnant. On their website, they probably have the little cookies warning that tells them that they are tracking their information or if they become a member of a rewards program the customers are not aware that they are using the shopping history in order to predict whether they are pregnant or not. This sort of algorithm exists outside of the ordinary person’s imagination of what a company could do with their data.</p>
-<p>One good thing about the data is that it was not publicly made available. Target has specific customer ids for each shopper and it is possible that if this data was publicly made available it could be used in other companies to predict pregnancy or it could reveal private information about a lot of people.</p>
-<p>The people who were measured were customers at Target. These individuals were the intended audience of target for who the algorithm was intended for. There is no indication that they were informed that their data would be used for this specific algorithm. If this data was publicly made available it should not be analyzed because there is no indication that the customers were willing participants in the study to create this specific algorithm.</p>
-<p>The observations for the algorithm are based on 25 items and how these were collected began with finding customers registered for a baby registry. Pole then found that women who were registered were buying unscented lotion early in their pregnancies. Then another analyst noticed that pregnant women were buying zinc and magnesium supplements sometime in the first 20 weeks. This practice of using the baby registry shows that participants in the study did not know or give their permission for their data to be used to create an invasive algorithm like this. Informed consent could have been possible by creating a survey for pregnant customers or customers that have previously been pregnant asking what products helped them while pregnant or what products they bought a lot of when pregnant. They could have compared the top results to the customer profiles of all the pregnant people who filled out the survey.</p>
+<p>However, both articles overlook a critical ethical issue: consent. In the <em>Times</em> article, Target marketers openly state their desire to know if a customer is pregnant—even if she doesn't want them to know. While Target may have disclosed general data tracking through cookie notices or loyalty program terms, customers were likely unaware that their purchase history could be used to infer pregnancy status. This level of data inference exceeds what most people expect companies to do with their personal information.</p>
+<p>One important safeguard is that this data was not made public. Target assigns unique customer IDs, and if this data were leaked or shared, it could potentially be exploited by other companies or used to expose sensitive personal details.</p>
+<p>The individuals tracked were Target shoppers, the intended users of the algorithm, but there's no evidence that they were informed or gave consent for their data to be used in this way. If the data had been publicly released, it would be unethical to analyze it for this purpose, as the participants were not willing contributors to the development of this algorithm.</p>
+<p>The algorithm was trained by identifying patterns in the shopping habits of customers who had signed up for Target's baby registry. For example, Pole discovered that expectant mothers often bought unscented lotion early in their pregnancy. Another analyst noticed purchases of zinc and magnesium supplements within the first 20 weeks. Yet these insights were derived without the informed consent of those customers. A more ethical approach could have involved voluntary surveys asking pregnant customers what products they used most. These responses could then have been matched with broader purchasing data—ensuring that participants knowingly contributed to the research.</p>
+<h3 class="anchored">
+References
+</h3>
+<p>Duhigg, Charles. "How Companies Learn Your Secrets." <em>The New York Times</em>, 16 Feb.&nbsp;2012, <a href="https://www.nytimes.com/2012/02/19/magazine/shopping-habits.html?smid=url-share" class="uri">https://www.nytimes.com/2012/02/19/magazine/shopping-habits.html?smid=url-share</a>.</p>
+<p>Fraser, Colin. "Target Didn't Figure out a Teen Girl Was Pregnant before Her Father Did." <em>Medium</em>, 3 Apr.&nbsp;2020, https://medium.com/@colin.fraser/target-didnt-figure-out-a-teen-girl-was-pregnant-before-her-father-did-a6be13b973a5.</p>
 
 
 
